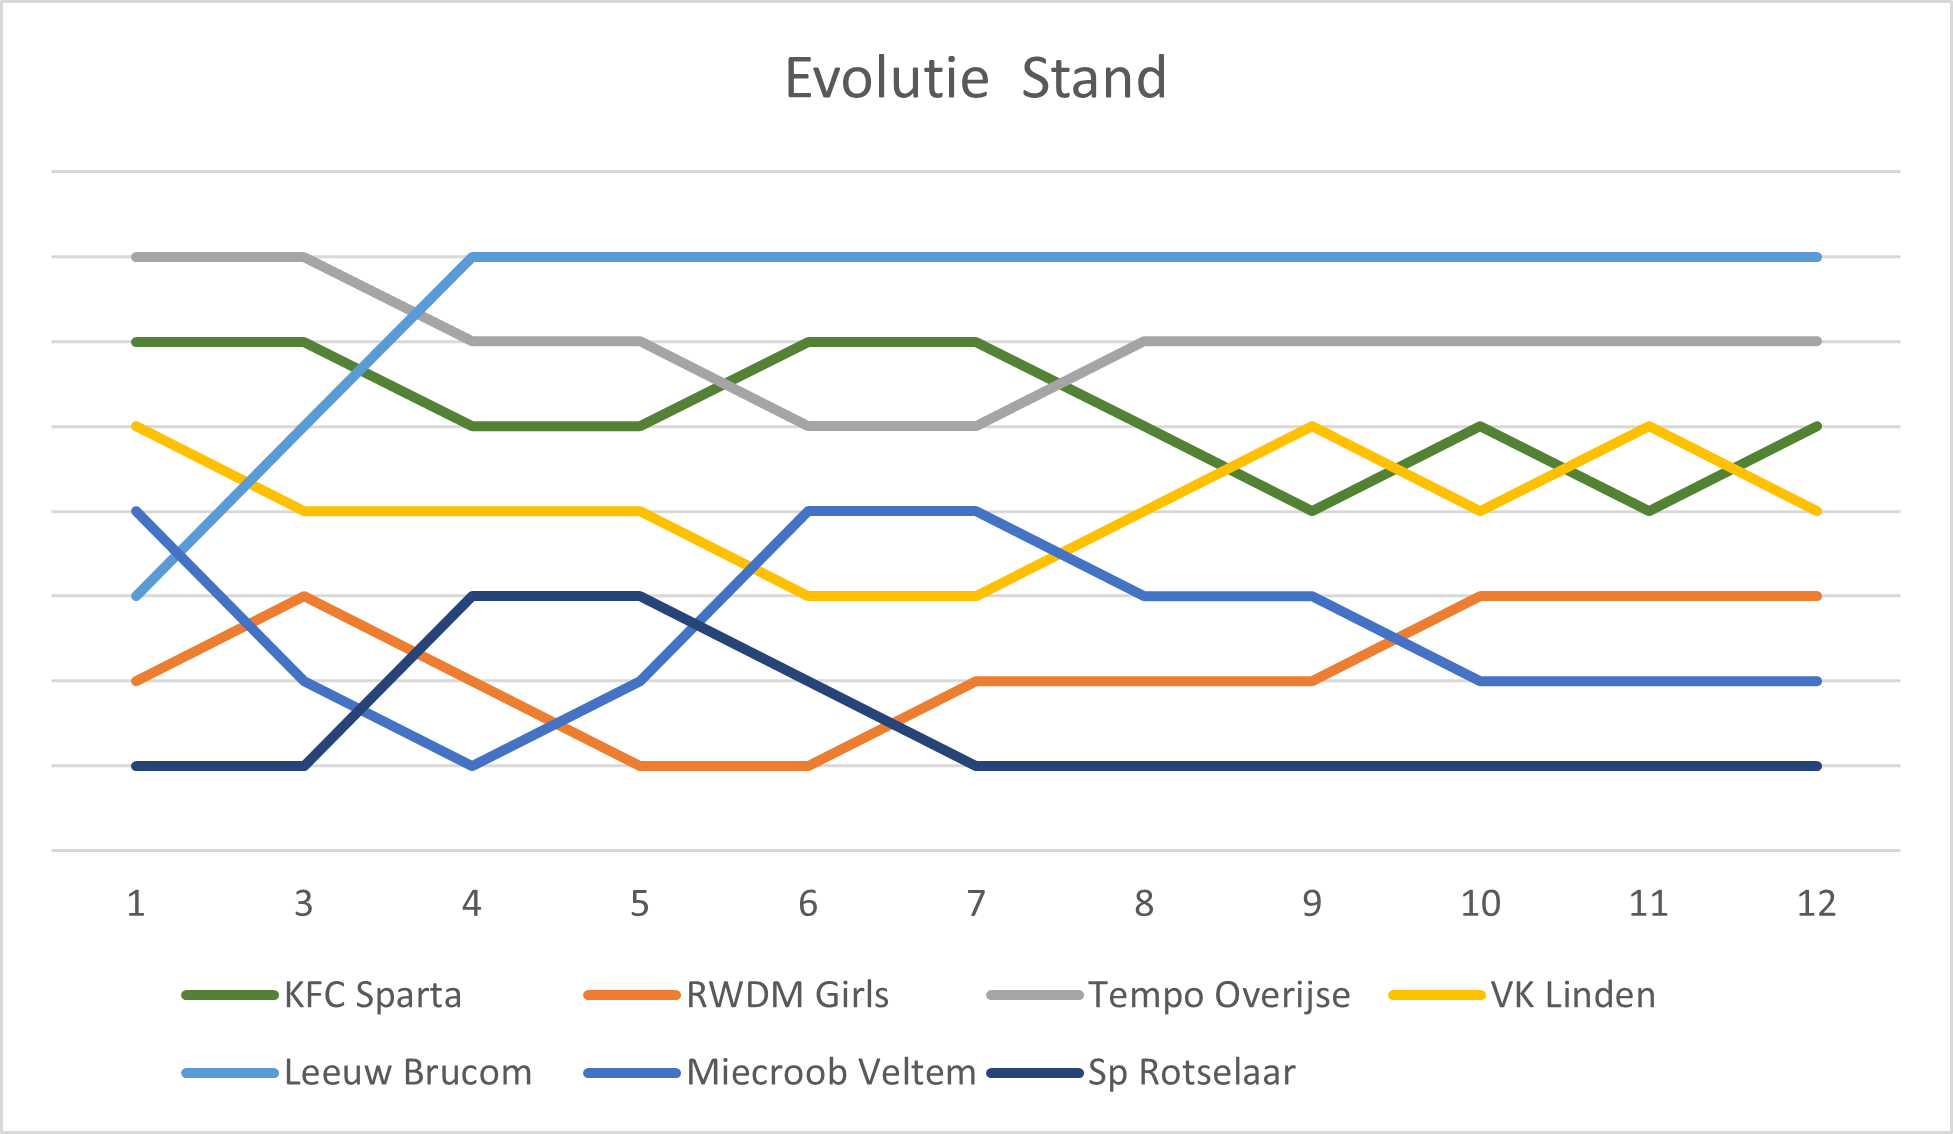
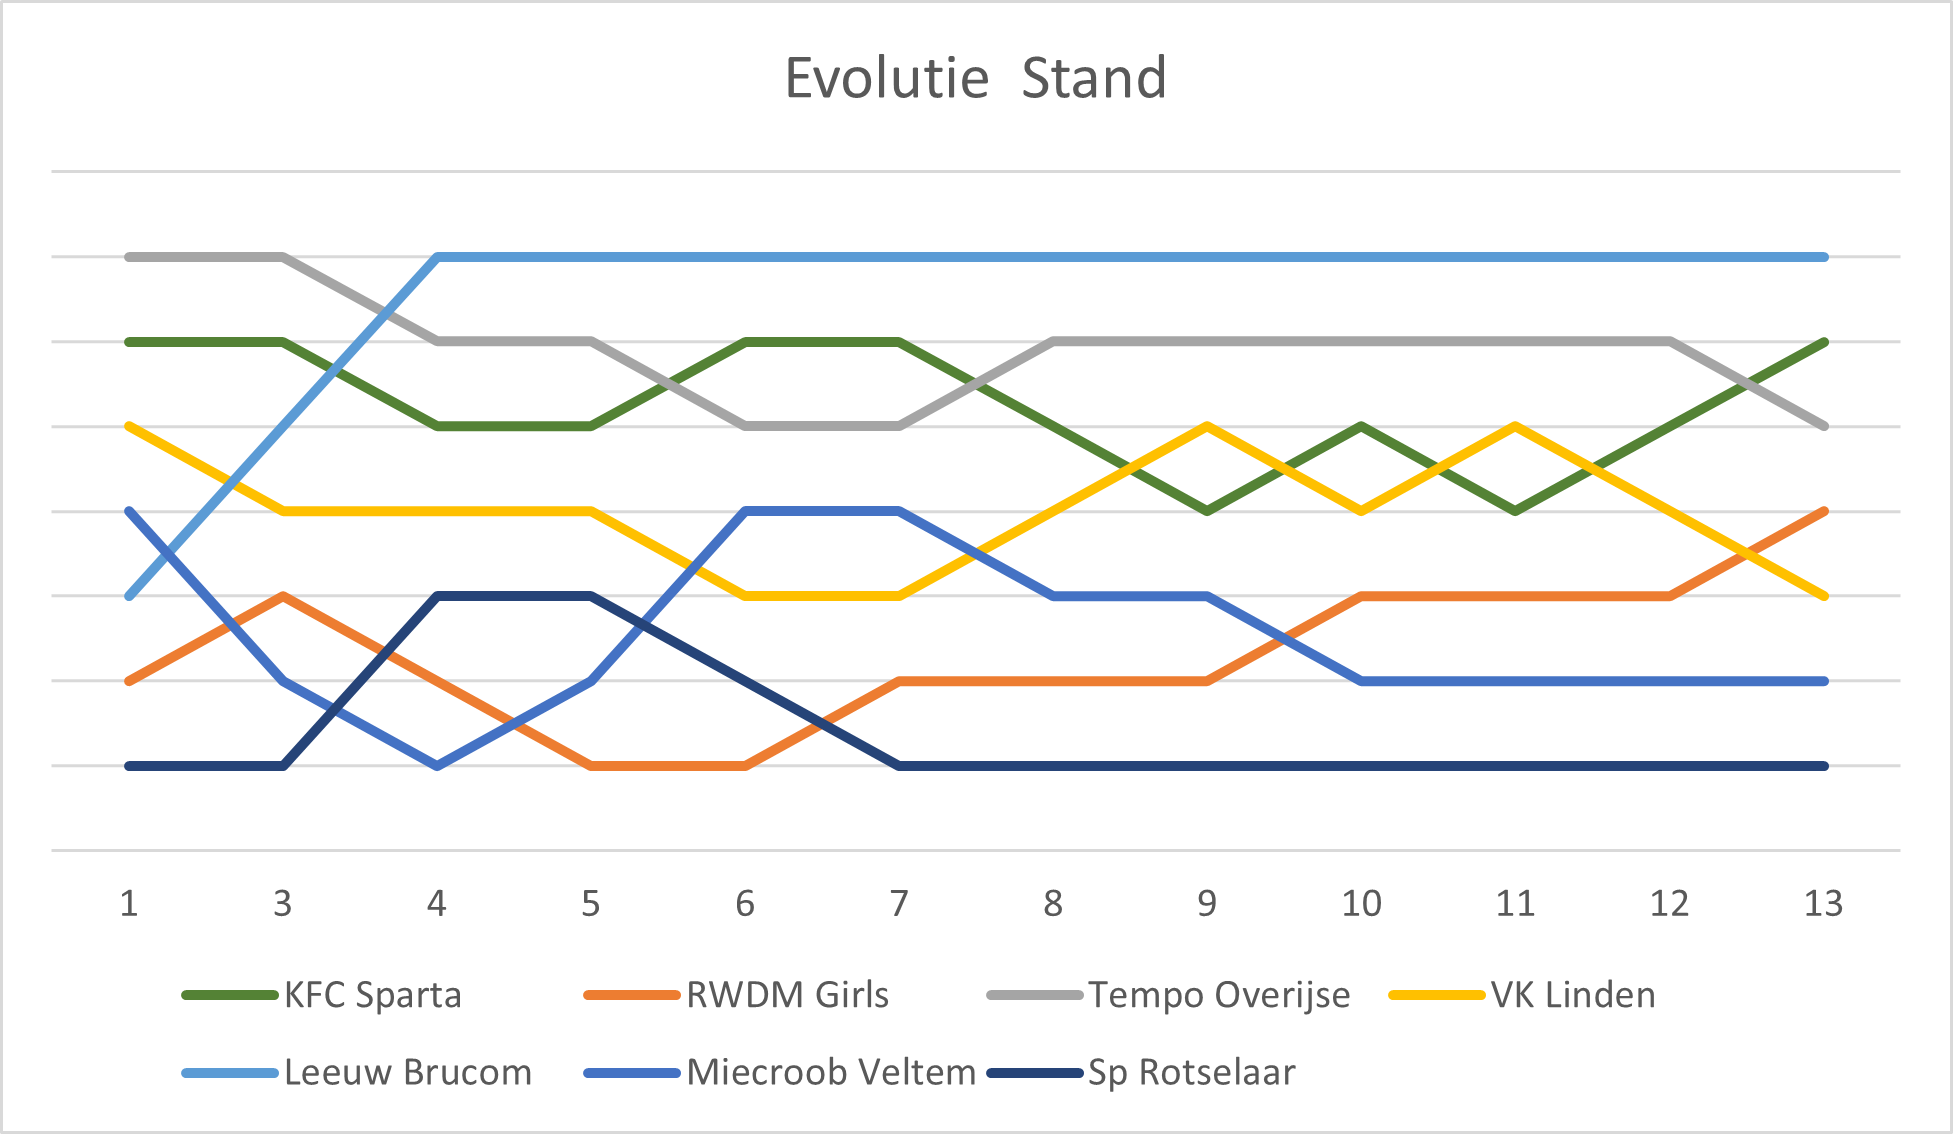
Update

diff --git a/README.md b/README.md
@@ -81,7 +81,6 @@ Kerkdreef 8 <br>
 
 Datum   | Thuis | Uit   | Tegenstander          | Uur
 ---     |:---:  |:---:  |---                    | ---
-zo 21-Apr|☑||Sp Rotselaar|10.30
 zo 28-Apr|☑||Leeuw Brucom|10.30
 za 4-mei||☑|Tornooi PSV1820| ❓
 za 18-mei|☑||Eigen Tornooi Sparta (mu-20)| ❓
@@ -115,6 +114,7 @@ Symbool   | Status
 
 Datum   | Thuis | Uit    | Tegenstander        | Uitslag
 ---     |:---:  |:---:   |---                  |---
+21-Apr  |✅     |        |Sp Rotselaar          |**22-2**
 13-Apr  |       |✅     |Miecroob Veltem        |**0-6**
 23-Maa  |       |✅       |VK Linden            |**3-4**
 17-Maa  |✅     |        |Tempo Overijse        |1-4
@@ -146,13 +146,13 @@ Datum   | Thuis | Uit    | Tegenstander        | Uitslag
 
 Team	|	PTS	|	M	|	W	|	V	|	G	|	+	|	-	|	+/-
 ---	|	---	|	---	|	---	|	---	|	---	|	---	|	---	|	---
-Leeuw Brucom	|	24	|	8	|	8	|	0	|	0	|	65	|	13	|	52
-Tempo Overijse	|	17	|	9	|	5	|	2	|	2	|	47	|	30	|	17
-KFC Sparta	|	15	|	9	|	4	|	2	|	3	|	38	|	18	|	20
+Leeuw Brucom	|	27	|	9	|	9	|	0	|	0	|	70	|	13	|	57
+KFC Sparta	|	18	|	10	|	5	|	2	|	3	|	60	|	20	|	40
+Tempo Overijse	|	17	|	10	|	5	|	3	|	2	|	47	|	35	|	12
+RWDM Girls	|	14	|	11	|	4	|	5	|	2	|	37	|	39	|	-2
 VK Linden	|	13	|	10	|	4	|	5	|	1	|	37	|	31	|	6
-RWDM Girls	|	11	|	10	|	3	|	5	|	2	|	30	|	37	|	-7
-Miecroob Veltem	|	5	|	8	|	1	|	5	|	2	|	16	|	29	|	-13
-Sp Rotselaar	|	3	|	8	|	1	|	7	|	0	|	12	|	87	|	-75
+Miecroob Veltem	|	5	|	9	|	1	|	6	|	2	|	18	|	36	|	-18
+Sp Rotselaar	|	3	|	9	|	1	|	8	|	0	|	14	|	109	|	-95
 
 
 
